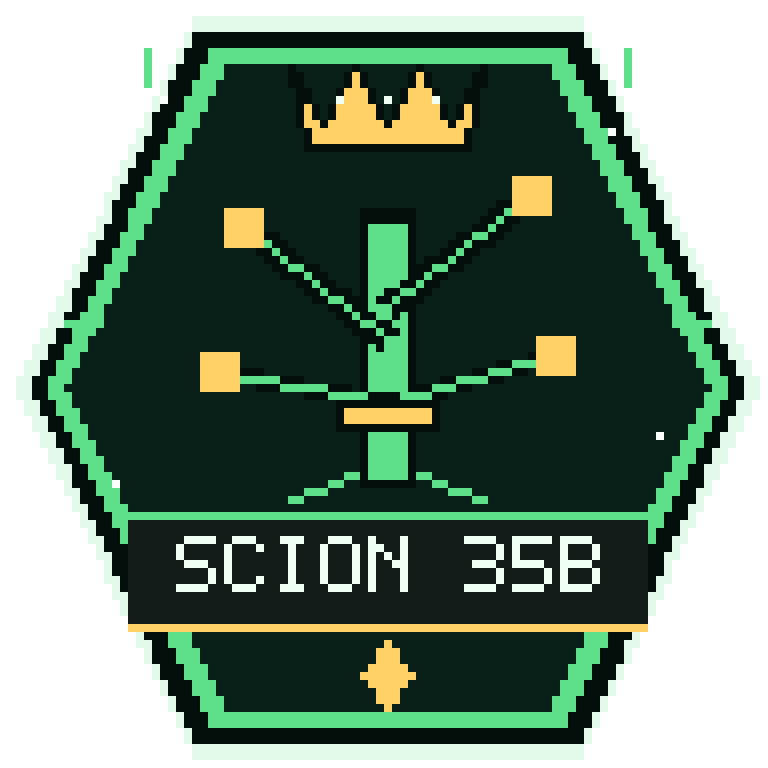
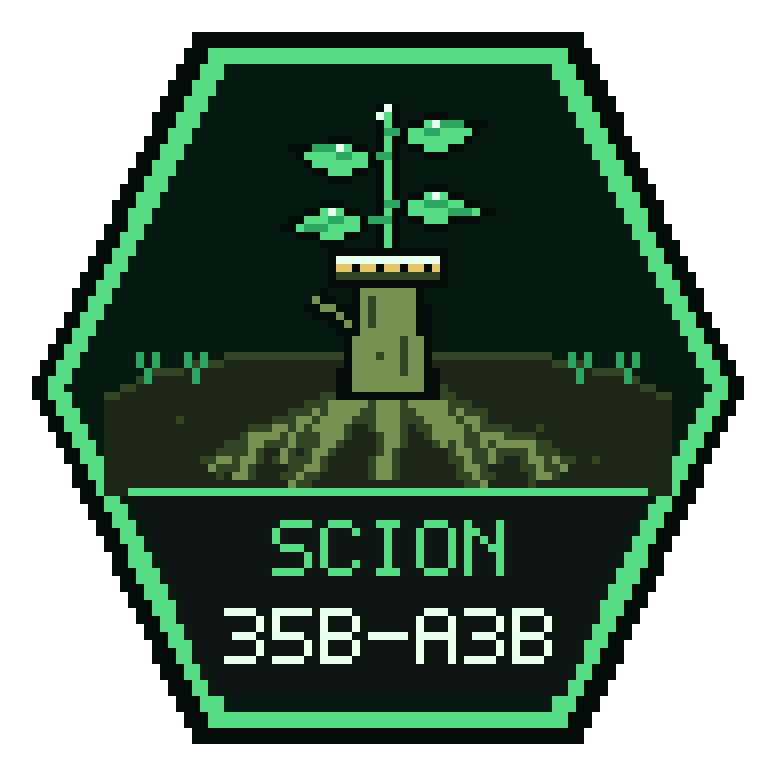
feat(assets): grafted Scion heroes on established roots

diff --git a/experiments/make_model_heroes.py b/experiments/make_model_heroes.py
@@ -69,10 +69,14 @@ PALETTES = {
                    "light": (236, 247, 255), "dark": (4, 11, 18)},
     "clerk": {"bg": (28, 15, 43), "accent": (192, 139, 255), "accent2": (255, 111, 181),
               "light": (248, 240, 255), "dark": (12, 5, 20)},
-    "scion35": {"bg": (8, 32, 24), "accent": (94, 224, 138), "accent2": (255, 209, 102),
-                "light": (240, 255, 244), "dark": (4, 14, 10)},
-    "scion176": {"bg": (42, 13, 13), "accent": (255, 138, 76), "accent2": (255, 209, 102),
-                 "light": (255, 244, 232), "dark": (18, 5, 5)},
+    "scion35": {"bg": (6, 26, 17), "accent": (86, 220, 132), "accent2": (44, 166, 96),
+                "light": (232, 255, 238), "dark": (3, 12, 8),
+                "root": (118, 144, 82), "root_dark": (50, 70, 38),
+                "soil": (28, 38, 22), "band": (228, 196, 104)},
+    "scion176": {"bg": (7, 30, 17), "accent": (138, 238, 112), "accent2": (58, 180, 96),
+                 "light": (240, 255, 226), "dark": (3, 14, 7),
+                 "root": (132, 158, 88), "root_dark": (56, 78, 42),
+                 "soil": (30, 40, 24), "band": (240, 208, 110)},
 }
 
 
@@ -82,16 +86,19 @@ def hex_points(inset: int = 0):
             (72 - inset, 92 - inset), (24 + inset, 92 - inset), (4 + inset, 48)]
 
 
-def text(draw: ImageDraw.ImageDraw, label: str, y: int, color, x: int = 48) -> None:
-    width = len(label) * 6 - 1
+def text(draw: ImageDraw.ImageDraw, label: str, y: int, color,
+         x: int = 48, scale: int = 1, spacing: int = 1) -> None:
+    pitch = 5 + spacing
+    width = (len(label) * pitch - spacing) * scale
     start = x - width // 2
     for i, char in enumerate(label):
         glyph = FONT.get(char.upper(), FONT[" "])
         for row, bits in enumerate(glyph):
             for col, bit in enumerate(bits):
                 if bit == "1":
-                    draw.rectangle((start + i * 6 + col, y + row,
-                                    start + i * 6 + col, y + row), fill=color)
+                    px = start + (i * pitch + col) * scale
+                    py = y + row * scale
+                    draw.rectangle((px, py, px + scale - 1, py + scale - 1), fill=color)
 
 
 def node(draw, x, y, color, light):
@@ -244,35 +251,128 @@ def draw_clerk(draw, p):
     draw.point((50, 59), fill=a2)
 
 
+def leaf(draw, box, p, pointing_right: bool = True, tip_dy: int = 0) -> None:
+    """A full pixel leaf with a rounded base, tapered tip and short vein."""
+    x0, y0, x1, y1 = box
+    cy = (y0 + y1) // 2
+    if pointing_right:
+        tip = (x1, cy + tip_dy)
+        edge = [(x0, cy), (x0 + 1, y0 + 1), (x0 + 4, y0),
+                (x0 + 7, y0 + 1), tip, (x0 + 7, y1 - 1),
+                (x0 + 4, y1), (x0 + 1, y1 - 1)]
+        vein = (x0 + 3, cy, x1 - 3, cy + tip_dy)
+        shoulder = (x0 + 4, y0 + 1)
+    else:
+        tip = (x0, cy + tip_dy)
+        edge = [(x1, cy), (x1 - 1, y0 + 1), (x1 - 4, y0),
+                (x1 - 7, y0 + 1), tip, (x1 - 7, y1 - 1),
+                (x1 - 4, y1), (x1 - 1, y1 - 1)]
+        vein = (x1 - 3, cy, x0 + 3, cy + tip_dy)
+        shoulder = (x1 - 4, y0 + 1)
+    draw.polygon(edge, fill=p["accent"], outline=p["dark"])
+    draw.line(vein, fill=p["accent2"], width=1)
+    draw.point(shoulder, fill=p["light"])
+
+
 def draw_scion(draw, p, big=False):
+    """A young scion shoot grafted onto an old, established rootstock.
+
+    The rootstock is a stump with a deep root fan and a cut side branch; the
+    bright scion is a different green, joined at a pale grafting band. The
+    176B hero gets a taller shoot, more leaves and a denser root fan.
+    """
     a, a2, light, dark = p["accent"], p["accent2"], p["light"], p["dark"]
-    # tree / graft
-    draw.rectangle((45, 26, 51, 60), fill=dark)
-    draw.rectangle((46, 28, 50, 59), fill=a)
-    branches = [((48, 42), (30, 28)), ((48, 38), (66, 24)),
-                ((48, 50), (27, 46)), ((48, 50), (69, 44))]
+    root, root_dark = p["root"], p["root_dark"]
+    soil, band = p["soil"], p["band"]
+
+    # ground line and a soil cross-section for the established roots
+    draw.polygon([(13, 61), (13, 49), (20, 46), (30, 44), (42, 44),
+                  (54, 44), (66, 44), (76, 46), (83, 49), (83, 61)],
+                 fill=soil)
+    draw.line((13, 49, 20, 46, 30, 44, 42, 44, 54, 44, 66, 44,
+               76, 46, 83, 49), fill=root_dark, width=1)
+    for x in (18, 24, 72, 78):
+        draw.line((x, 47, x - 1, 44), fill=a2, width=1)
+        draw.line((x, 47, x + 1, 44), fill=a2, width=1)
+    for x, y in [(22, 52), (30, 56), (67, 53), (74, 57), (58, 59)]:
+        draw.point((x, y), fill=root_dark)
+
+    # established root fan: thick mains, tapered laterals, a few rootlets
     if big:
-        branches += [((48, 34), (38, 18)), ((48, 34), (58, 18))]
-    for (x0, y0), (x1, y1) in branches:
-        draw.line((x0, y0, x1, y1), fill=dark, width=3)
-        draw.line((x0, y0, x1, y1), fill=a, width=1)
-        draw.rectangle((x1 - 2, y1 - 2, x1 + 2, y1 + 2), fill=a2)
-    # graft band
-    draw.rectangle((42, 50, 54, 53), fill=dark)
-    draw.rectangle((43, 51, 53, 52), fill=a2)
-    # crown
-    draw.polygon([(36, 8), (40, 15), (44, 8), (48, 15), (52, 8), (56, 15), (60, 8),
-                  (58, 18), (38, 18)], fill=a2, outline=dark)
-    draw.point((42, 12), fill=light)
-    draw.point((48, 12), fill=light)
-    draw.point((54, 12), fill=light)
+        roots = [
+            ([(48, 47), (42, 50), (35, 53), (28, 56), (24, 59)], 4),
+            ([(48, 47), (54, 50), (61, 53), (68, 56), (72, 59)], 4),
+            ([(42, 50), (39, 55), (37, 59)], 3),
+            ([(54, 50), (57, 55), (59, 59)], 3),
+            ([(28, 56), (26, 60)], 2),
+            ([(68, 56), (70, 60)], 2),
+            ([(48, 47), (48, 54), (47, 60)], 3),
+            ([(35, 53), (32, 58)], 2),
+            ([(61, 53), (64, 58)], 2),
+        ]
+    else:
+        roots = [
+            ([(48, 47), (43, 50), (37, 53), (31, 55), (26, 58)], 4),
+            ([(48, 47), (53, 50), (59, 53), (65, 55), (70, 58)], 4),
+            ([(43, 50), (40, 54), (38, 58), (36, 60)], 3),
+            ([(53, 50), (56, 54), (58, 58), (60, 60)], 3),
+            ([(31, 55), (29, 59)], 2),
+            ([(65, 55), (67, 59)], 2),
+            ([(48, 47), (48, 53), (47, 59)], 3),
+            ([(37, 53), (35, 57)], 1),
+            ([(59, 53), (61, 57)], 1),
+        ]
+    for pts, width in roots:
+        segs = len(pts) - 1
+        for i in range(segs):
+            w = max(1, round(width * (segs - i) / segs))
+            draw.line((pts[i], pts[i + 1]), fill=root_dark, width=w + 2)
+        for i in range(segs):
+            w = max(1, round(width * (segs - i) / segs))
+            draw.line((pts[i], pts[i + 1]), fill=root, width=w)
+
+    # rootstock stump: older, darker wood, wider than the scion
+    draw.polygon([(42, 49), (44, 33), (52, 33), (54, 49)], fill=dark)
+    draw.polygon([(44, 48), (45, 35), (51, 35), (52, 48)], fill=root)
+    draw.line((46, 37, 46, 40), fill=root_dark, width=1)
+    draw.line((50, 42, 50, 46), fill=root_dark, width=1)
+    draw.point((47, 44), fill=root_dark)
+    # old cut side branch
+    draw.line((43, 40, 39, 37), fill=dark, width=3)
+    draw.line((43, 40, 39, 37), fill=root, width=1)
+
+    # scion shoot: new growth, brighter green, slimmer than the stump
+    top = 10 if big else 13
+    draw.line((48, top, 48, 34), fill=dark, width=3)
+    draw.line((48, top + 1, 48, 33), fill=a, width=1)
+    # new growth tip
+    draw.point((48, top), fill=light)
+    draw.point((47, top + 1), fill=light)
+
+    leaves = [(50, 14, 60, 19), (36, 17, 46, 22),
+              (50, 23, 61, 28), (35, 25, 45, 30)]
     if big:
-        # lightning bolt through the graft
-        draw.polygon([(60, 20), (48, 38), (56, 38), (42, 58), (52, 40), (45, 40)],
-                     fill=a2, outline=dark)
-    # roots
-    draw.line((44, 59, 36, 62), fill=a, width=1)
-    draw.line((52, 59, 60, 62), fill=a, width=1)
+        leaves = [(50, 9, 60, 14), (36, 11, 46, 16),
+                  (51, 16, 62, 21), (34, 19, 45, 24),
+                  (50, 23, 61, 28), (33, 25, 43, 30)]
+    for box in leaves:
+        # short petiole joins the leaf to the shoot
+        x0, y0, x1, y1 = box
+        cy = (y0 + y1) // 2
+        if x0 > 48:
+            draw.line((48, cy, x0, cy), fill=a2, width=1)
+        else:
+            draw.line((x1, cy, 48, cy), fill=a2, width=1)
+        leaf(draw, box, p, pointing_right=x0 > 48,
+             tip_dy=-1 if cy <= 20 else 1)
+
+    # grafting band over the union: the visual join between old and new
+    draw.rectangle((41, 31, 55, 35), fill=dark)
+    draw.rectangle((42, 32, 54, 34), fill=band)
+    draw.line((42, 32, 54, 32), fill=light, width=1)
+    draw.line((42, 34, 54, 34), fill=root_dark, width=1)
+    for x in (44, 47, 50, 53):
+        draw.point((x, 33), fill=dark)
 
 
 ICONS = {
@@ -291,9 +391,11 @@ LABELS = {
     "auditor": "AUDITOR",
     "dispatcher": "DISPATCHER",
     "clerk": "CLERK",
-    "scion35": "SCION 35B",
-    "scion176": "SCION 176B",
+    "scion35": "SCION",
+    "scion176": "SCION",
 }
+
+PARAMS = {"scion35": "35B-A3B", "scion176": "176B-A6B"}
 
 
 def make(name: str) -> Path:
@@ -302,28 +404,27 @@ def make(name: str) -> Path:
     light, dark = p["light"], p["dark"]
     img = Image.new("RGBA", (96, 96), (0, 0, 0, 0))
     d = ImageDraw.Draw(img)
-    # outer glow
-    d.polygon([(24, 2), (72, 2), (94, 48), (72, 94), (24, 94), (2, 48)],
-              fill=(*accent, 45))
     # border and body
     d.polygon(hex_points(0), fill=(*dark, 255))
     d.polygon(hex_points(2), fill=(*accent, 255))
     d.polygon(hex_points(4), fill=(*bg, 255))
-    # pixel sparkles / dither
-    for x, y in [(20, 12), (76, 16), (14, 60), (82, 54), (48, 56)]:
-        d.point((x, y), fill=(*light, 90))
     # icon
     ICONS[name](d, p)
-    # label banner
-    d.rectangle((16, 64, 80, 78), fill=(*dark, 240))
-    d.line((16, 64, 80, 64), fill=accent, width=1)
-    d.line((16, 78, 80, 78), fill=accent2, width=1)
-    text(d, LABELS[name], 67, light)
-    # base diamond
-    d.polygon([(48, 80), (51, 84), (48, 88), (45, 84)], fill=accent2)
-    # corner brackets
-    for x, y, sx, sy in [(8, 40, 1, 0), (88, 40, -1, 0), (18, 6, 0, 1), (78, 6, 0, 1)]:
-        d.line((x, y, x + 4 * sx if sx else x, y + 4 * sy if sy else y), fill=accent, width=1)
+    if name in PARAMS:
+        # two-line banner clipped to the hexagon's taper
+        banner = [(16, 61), (80, 61), (70, 86), (26, 86)]
+        d.polygon(banner, fill=(*dark, 245))
+        d.line((16, 61, 80, 61), fill=accent, width=1)
+        text(d, LABELS[name], 65, accent)
+        text(d, PARAMS[name], 76, light)
+    else:
+        # single-line label banner
+        d.rectangle((16, 64, 80, 78), fill=(*dark, 240))
+        d.line((16, 64, 80, 64), fill=accent, width=1)
+        d.line((16, 78, 80, 78), fill=accent2, width=1)
+        text(d, LABELS[name], 67, light)
+        # base diamond
+        d.polygon([(48, 80), (51, 84), (48, 88), (45, 84)], fill=accent2)
     OUT.mkdir(parents=True, exist_ok=True)
     path = OUT / f"{name}.png"
     img.resize((96 * SCALE, 96 * SCALE), Image.Resampling.NEAREST).save(path)
